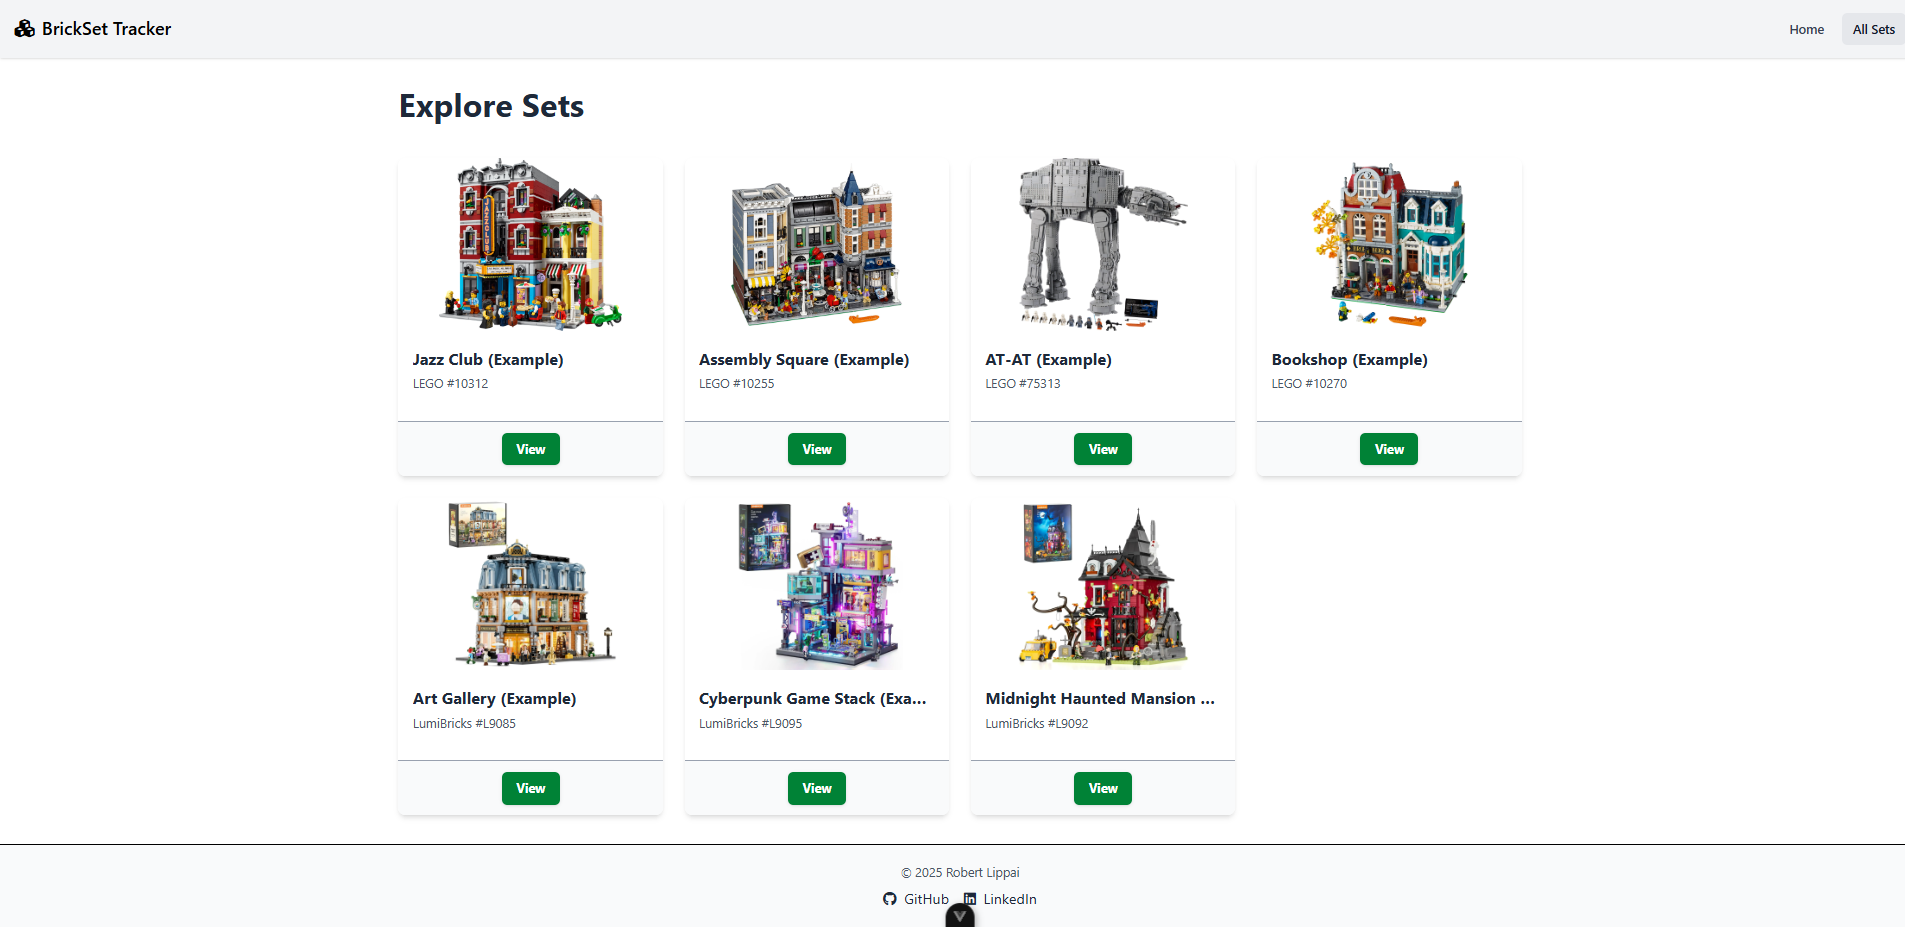
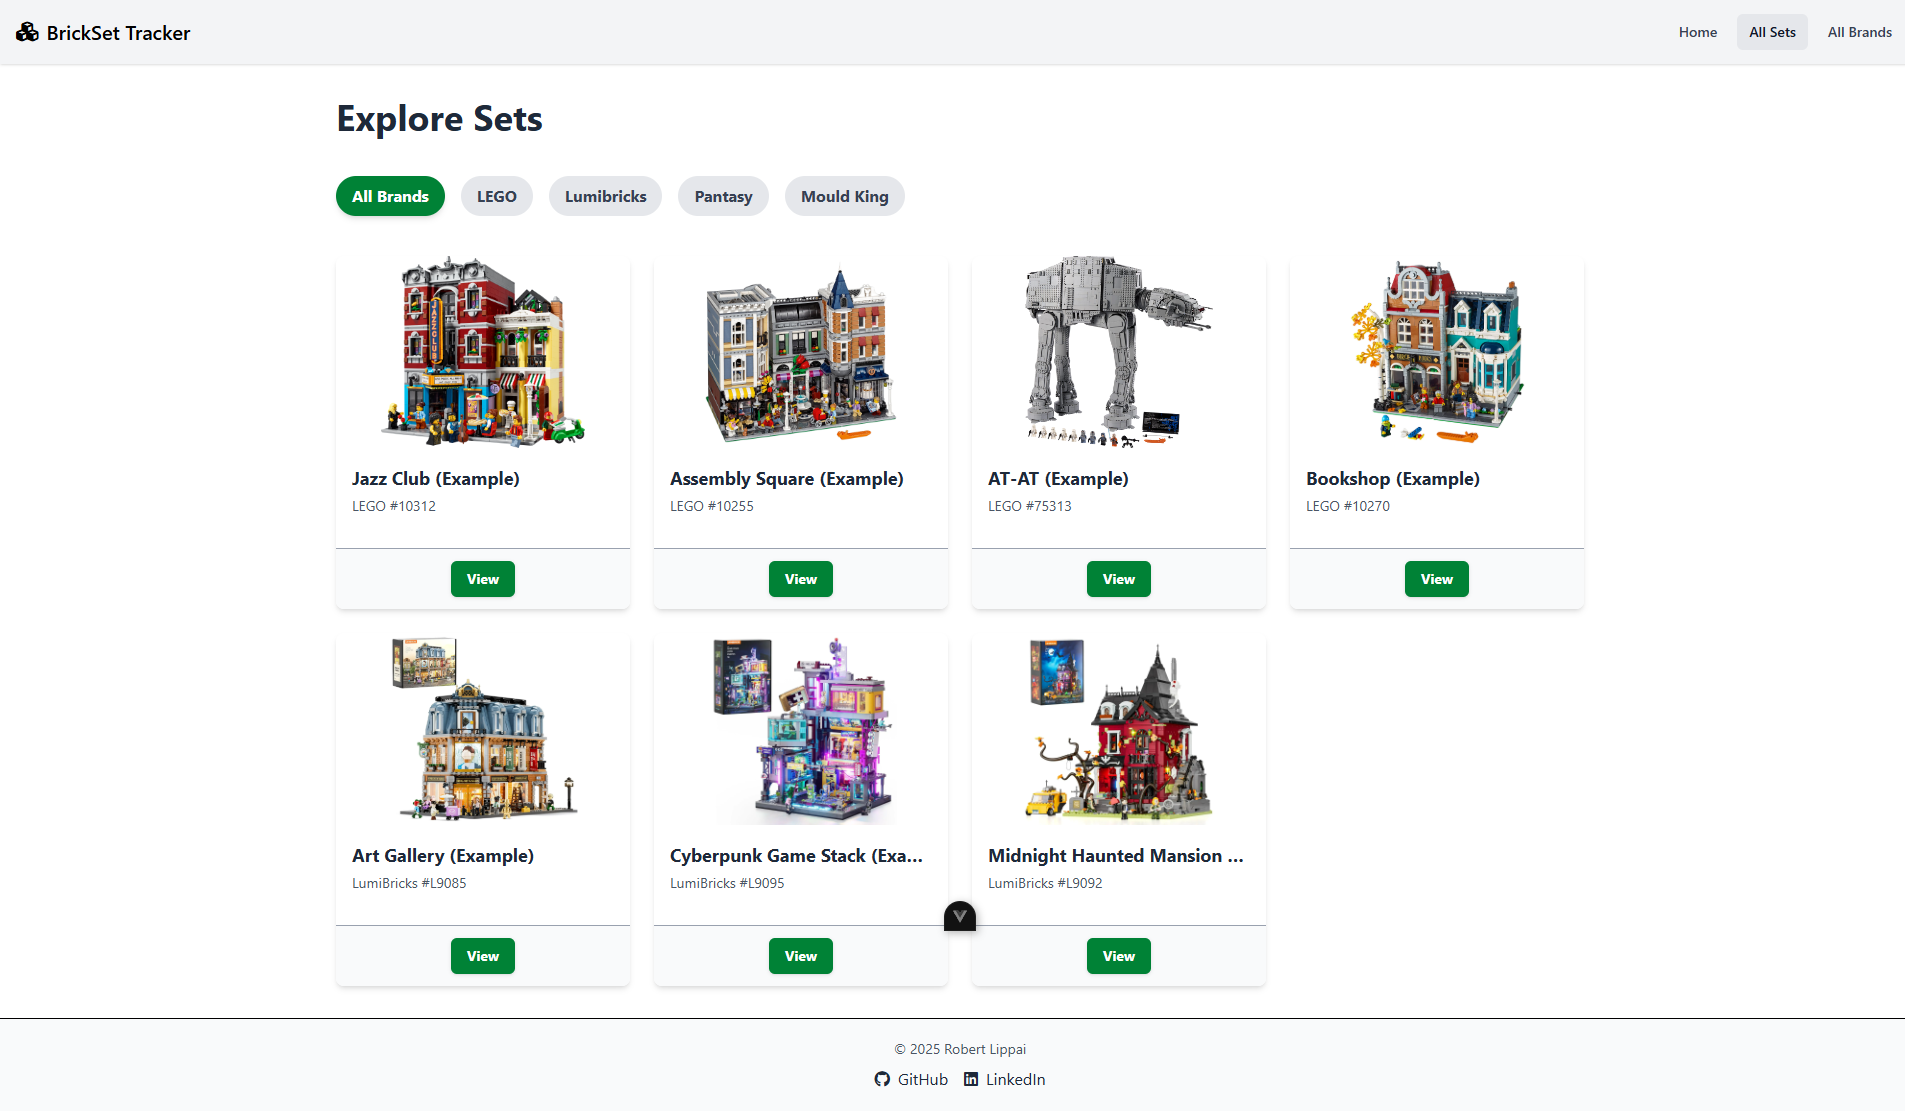
Add brand filter UI for Sets page

diff --git a/src/views/SetsView.vue b/src/views/SetsView.vue
@@ -1,15 +1,19 @@
 <script setup>
 import SetList from '@/components/SetList.vue';
-import { useRoute } from 'vue-router';
+import { useRoute, RouterLink } from 'vue-router';
 import { ref, watchEffect } from 'vue';
-import { placeholderSets } from '@/placeholder-data.js';
+import { placeholderBrands, placeholderSets } from '@/placeholder-data.js';
 import axios from 'axios';
+import { lastSetsPath } from "@/navigationStore.js";
 
 const sets = ref([]);
+const brands = ref([]);
 const isLoading = ref(true);
 const route = useRoute();
 
 watchEffect(async () => {
+  lastSetsPath.value = route.fullPath;
+
   const brandName = route.query.brand;
 
   let apiUrl = '/api/sets';
@@ -18,10 +22,17 @@ watchEffect(async () => {
   }
 
   try {
-    const response = await axios.get(apiUrl);
-    sets.value = response.data;
+    const [setsResponse, brandsResponse] = await Promise.all([
+      axios.get(apiUrl),
+      axios.get('/api/brands')
+    ]);
+
+    sets.value = setsResponse.data;
+    brands.value = brandsResponse.data;
   } catch (error) {
     console.warn('API fetch failed. Falling back to placeholder data.', error);
+
+    brands.value = placeholderBrands;
     if (brandName) {
       sets.value = placeholderSets.filter(
           (set) => set.brandName.toLowerCase() === brandName.toLowerCase()
@@ -38,6 +49,23 @@ watchEffect(async () => {
 <template>
   <div class="container mx-auto max-w-7xl px-4 py-8">
     <h1 class="text-4xl font-bold text-gray-800 mb-10">Explore Sets</h1>
+
+    <div v-if="!isLoading" class="flex justify-start flex-wrap gap-4 mb-10">
+      <!-- All Brands Button -->
+      <RouterLink
+          to="/sets"
+          :class="!route.query.brand ? 'bg-green-700 text-white font-bold py-2 px-4 rounded-full shadow-md' : 'bg-gray-200 text-gray-700 font-bold py-2 px-4 rounded-full transition hover:bg-gray-300'">
+        All Brands
+      </RouterLink>
+      <!-- Buttons for each brand -->
+      <RouterLink
+          v-for="brand in brands"
+          :key="brand.bid"
+          :to="`/sets?brand=${brand.name}`"
+          :class="route.query.brand === brand.name ? 'bg-green-700 text-white font-bold py-2 px-4 rounded-full shadow-md' : 'bg-gray-200 text-gray-700 font-bold py-2 px-4 rounded-full transition hover:bg-gray-300'">
+        {{ brand.name }}
+      </RouterLink>
+    </div>
 
     <div class="grid grid-cols-1 md:grid-cols-2 lg:grid-cols-3 xl:grid-cols-4 gap-6">
       <SetList :sets="sets" :is-loading="isLoading" />

diff --git a/src/views/SetDetailView.vue b/src/views/SetDetailView.vue
@@ -4,6 +4,7 @@ import { useRoute, useRouter, RouterLink } from 'vue-router';
 import axios from 'axios';
 import { VueSpinnerSync } from "vue3-spinners";
 import { placeholderSets } from '../placeholder-data.js';
+import { lastSetsPath } from "@/navigationStore.js";
 
 const set = ref(null);
 const isLoading = ref(true);
@@ -37,7 +38,7 @@ onMounted(async () => {
 <template>
   <div class="container mx-auto max-w-6xl p-4 md:p-8">
     <!-- Go Back Button -->
-    <RouterLink to="/sets" class="text-green-700 hover:text-green-900 mb-8 inline-block">
+    <RouterLink :to="lastSetsPath" class="text-green-700 hover:text-green-900 mb-8 inline-block">
       &larr; Back to All Sets
     </RouterLink>
 

diff --git a/src/navigationStore.js b/src/navigationStore.js
@@ -1,0 +1,3 @@
+import { ref } from 'vue';
+
+export const lastSetsPath = ref('/sets');

diff --git a/README.md b/README.md
@@ -4,8 +4,10 @@ This is the Vue 3 frontend for my BricksetTracker project. It connects to the [B
 
 ## Features
 * **Dynamic Set Catalog:** Fetches and displays brick sets from the backend API.
+* **Interactive Filtering:** Users can filter the set catalog by brand in real-time. The UI reactively updates based on URL query parameters.
+* **Robust Data Fetching & Error Handling:** Uses `axios` for API calls, includes loading states, and gracefully falls back to placeholder data if the API is unavailable.
 * **Responsive Design:** Works on both desktop and mobile, featuring a collapsible hamburger menu.
-* **Component-Based Architecture:** Reusable components for the Navbar, Footer, Hero Section, Set List and Set Cards.
+* **Component-Based Architecture:** Reusable components for the Navbar, Footer, Hero Section, Set List and cards.
 
 ## Tech Stack
 * Vue 3
@@ -28,9 +30,9 @@ This is the Vue 3 frontend for my BricksetTracker project. It connects to the [B
 
 ## Roadmap
 - [x] **Layout Foundation:** Create a responsive main layout with a navigation bar and footer.
-- [x] **Explore Sets Page:** Display all sets from the API in a responsive grid.
-- [X] **Set Detail Page:** Display detailed information about a set.
-- [X] **Explore Brands Page:** Display all brands from the API in a responsive grid.
+- [x] **Explore Sets Page:** Display all sets from the API in a responsive grid with brand filtering.
+- [x] **Set Detail Page:** Display detailed information about a set.
+- [x] **Explore Brands Page:** Display all brands from the API in a responsive grid.
 - [ ] **User Authentication:** Secure registration and login functionality.
 - [ ] **User Inventory Management:** Allow logged-in users to add or remove sets from their personal collection.
 - [ ] **Admin Panels:** (Future) Provide UI for users with `EDITOR` or `ADMIN` roles to manage Sets, Brands, Tags and Comments.
